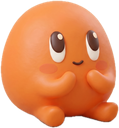
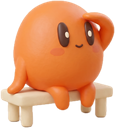
art: the waiting pose is Ducter on a little bench looking out; CI is a plain cloud (D112)
Raters (LLM proxies) read chin-on-hands as thinking (1-2/10 waiting), the sign as a tablet
(1/10), the bench as waiting for the bus (5/10); a cloud with a check read as done.

diff --git a/design/art/assets/prompts/ducter_waiting.md b/design/art/assets/prompts/ducter_waiting.md
@@ -1,1 +1,1 @@
-Same orange pebble character sitting down on its little bottom, both tiny hands under its chin, patiently waiting: eyes open, looking up toward the upper right (at something just out of frame), a small calm content smile, relaxed and unhurried. Nothing above it or beside it: no bubble, no props.
+Same orange pebble character sitting on a tiny cream clay bench, little feet dangling, leaning forward slightly and looking far off to the right with one small hand raised flat above its eyes (shading its eyes to see something coming), patient and hopeful, a small calm smile. Nothing else in the scene.

diff --git a/design/art/assets/prompts/wait_ci.md b/design/art/assets/prompts/wait_ci.md
@@ -1,1 +1,1 @@
-A small puffy sky-blue clay cloud with one chunky mint-green clay check mark resting on its front.
+A small puffy sky-blue clay cloud with a soft cream underside, nothing on it.
